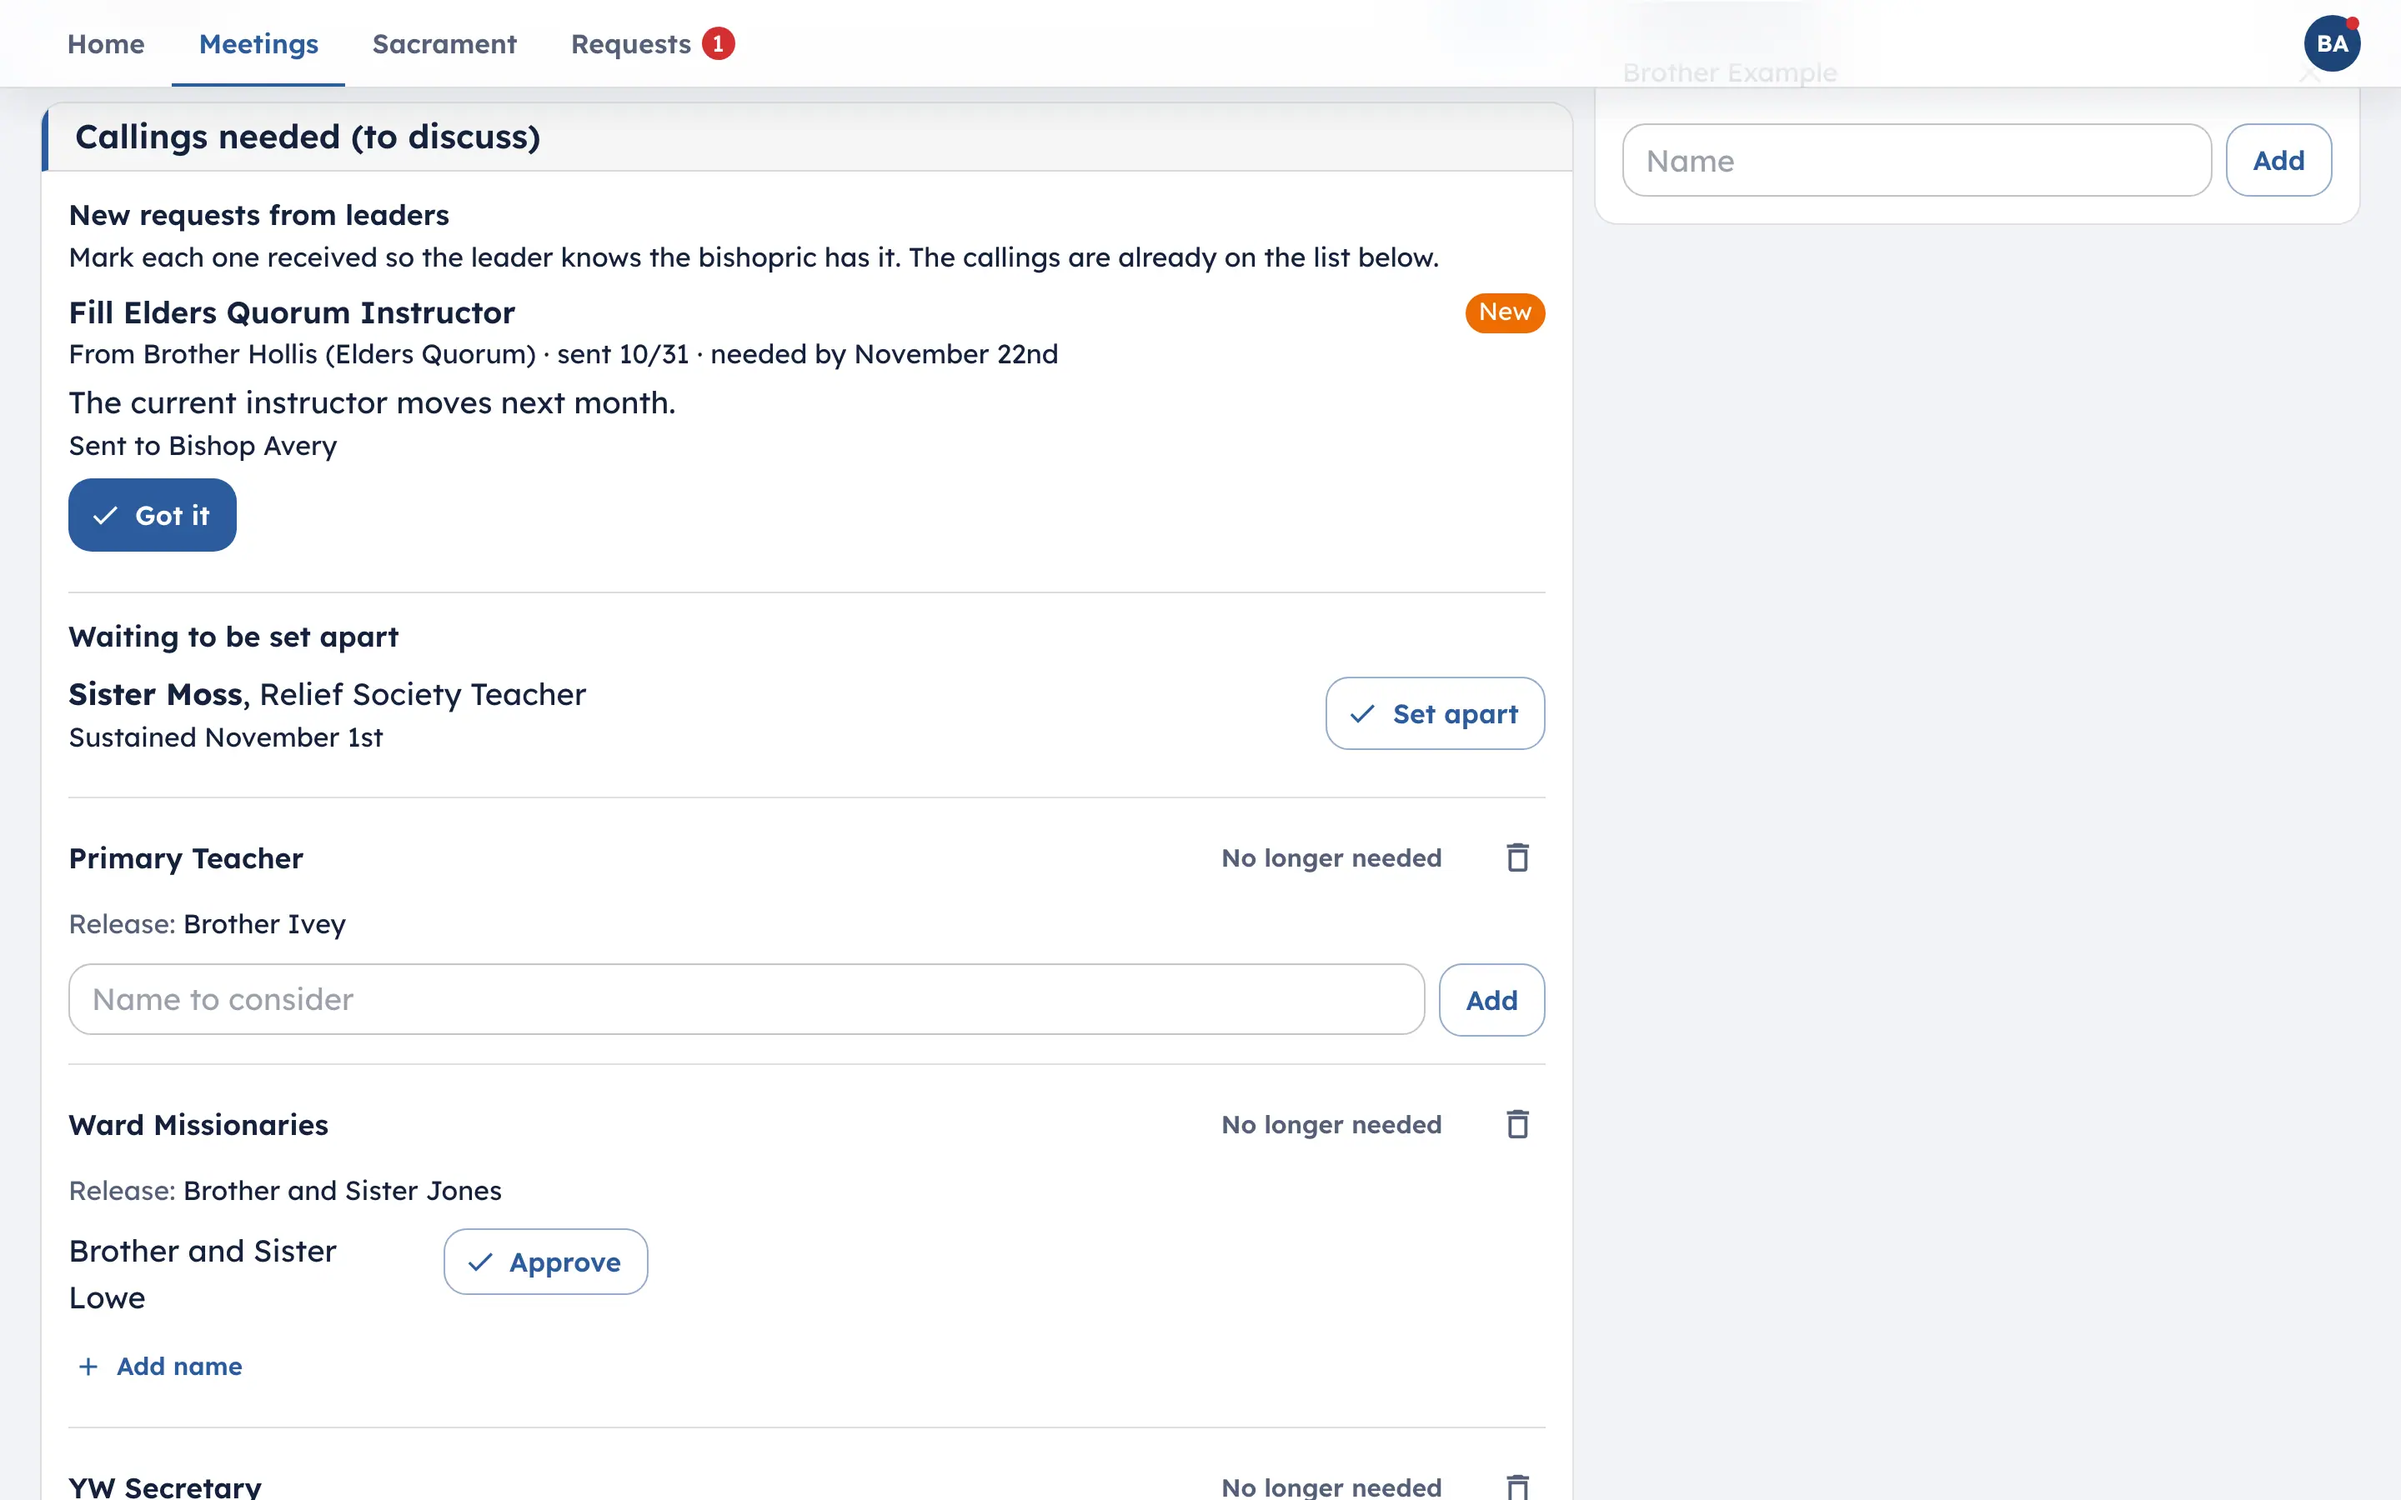
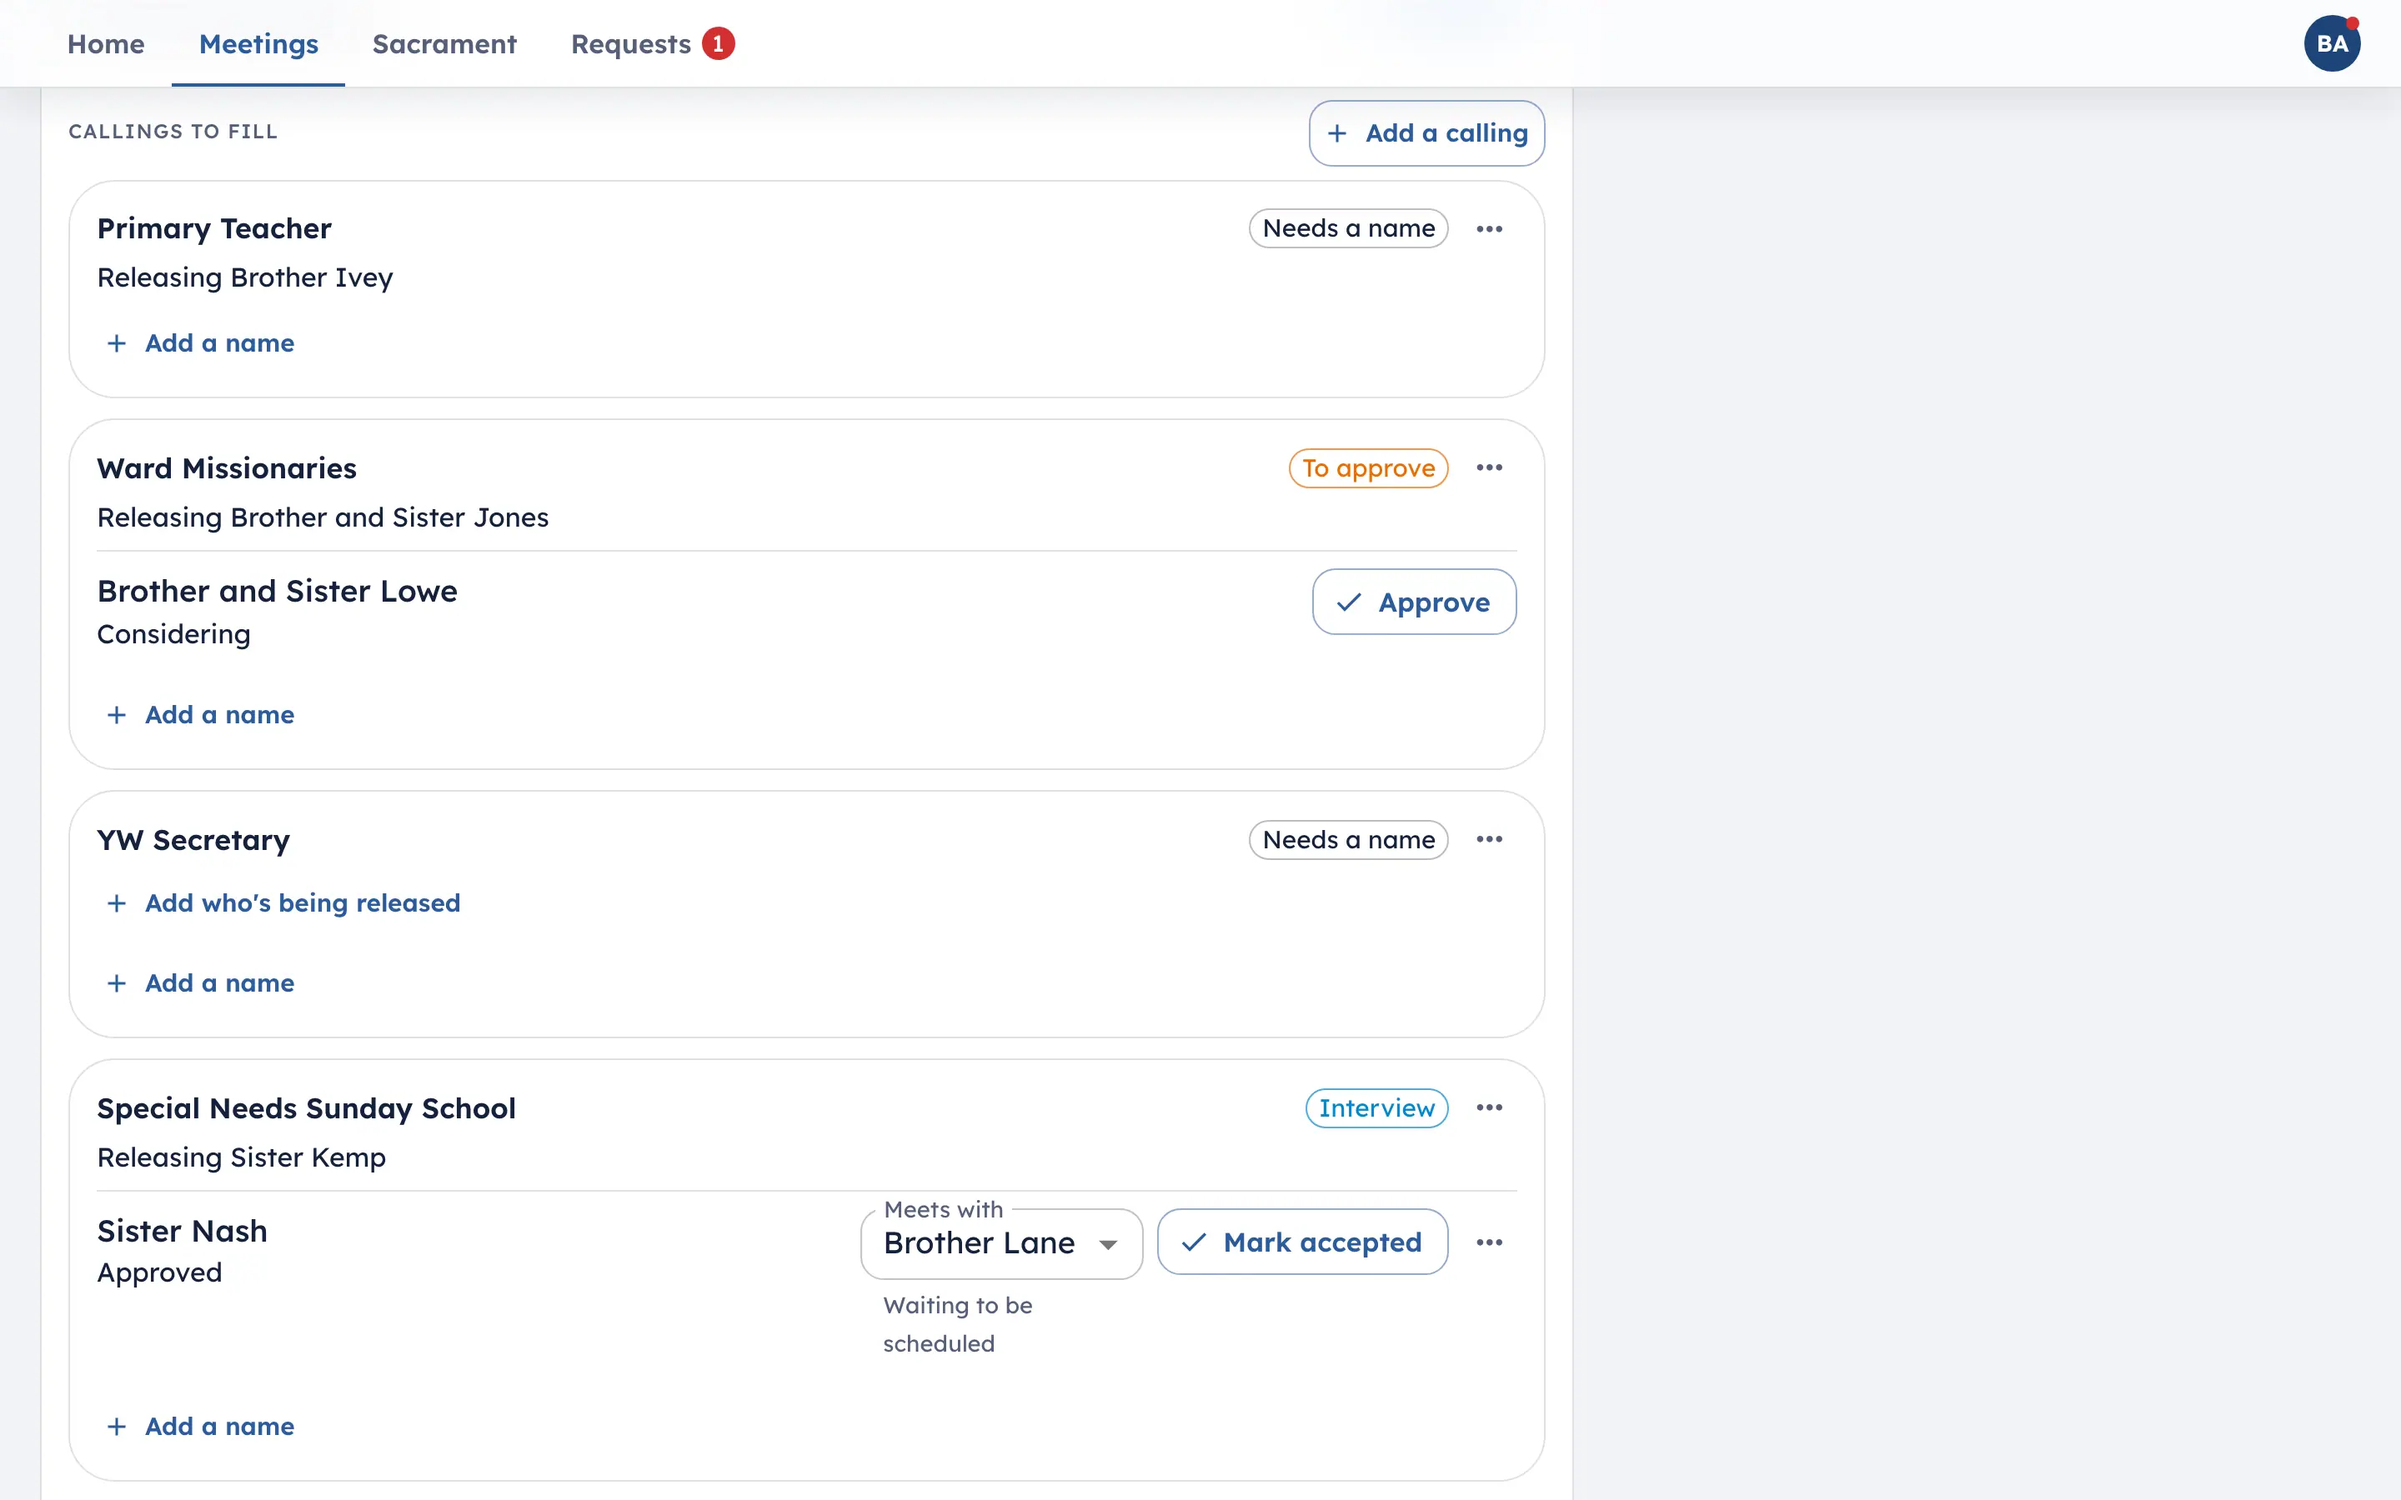
docs(site): update callings guide and screenshots for calling cards
The callings pages still described the status picker, the bin icon
and the always-open name box. They now walk through the per-calling
cards: the stage label, the next-step buttons, the ⋯ menus and the
sustain and release dates together at the foot of the card. Also
fixes the claim that an accepted calling leaves the list; it stays
as "To sustain" until the sustaining Sunday.

The callings screenshot now scrolls to "Callings to fill" so the
phone shot shows the cards instead of the example leader request.

diff --git a/scripts/screenshots/shots.ts b/scripts/screenshots/shots.ts
@@ -39,7 +39,7 @@ export const SHOTS: Shot[] = [
   { feature: 'home-leader', role: 'leader', route: '/requests', caption: 'A called leader starts on Requests, where they see what the bishopric has asked and can ask for calling changes.', waitFor: /Got it|New|Sent|Seen|calling/ },
 
   { feature: 'agenda-bishopric', role: 'bishop', route: '/agenda/bishopric', caption: 'The bishopric meeting agenda with every section ready to fill in.', waitFor: /Action \/ discussion items/ },
-  { feature: 'agenda-bishopric-callings', role: 'bishop', route: '/agenda/bishopric', caption: 'Callings are worked on the bishopric agenda: needs, names and where each stands.', waitFor: /Action \/ discussion items/, prepare: scrollToText(/Callings/i) },
+  { feature: 'agenda-bishopric-callings', role: 'bishop', route: '/agenda/bishopric', caption: 'Callings are worked on the bishopric agenda: one card per calling, showing where it stands and its next step.', waitFor: /Action \/ discussion items/, prepare: scrollToText(/^Callings to fill$/) },
   { feature: 'agenda-bishopric-assignments', role: 'secretary', route: '/agenda/bishopric/2026-11-08', caption: 'Prayers and the spiritual thought go to someone picked from a list, who accepts or declines.', waitFor: /Bishopric Meeting Agenda/ },
   { feature: 'agenda-ward-council', role: 'bishop', route: '/agenda/ward-council', caption: 'Ward council agenda, with a section for each organization.', waitFor: /General business/ },
   { feature: 'agenda-ward-council-leader', role: 'leader', route: '/agenda/ward-council', caption: 'Called leaders who attend ward council see only that agenda.', waitFor: /General business/ },

diff --git a/site/src/content/docs/docs/callings/proposing-names.md b/site/src/content/docs/docs/callings/proposing-names.md
@@ -16,22 +16,22 @@ Everything starts on the **Callings** section of the bishopric agenda (**Meeting
 
 ## Add a calling to fill
 
-1. Scroll to **Add a calling to fill** at the bottom of the callings section.
+1. Tap **Add a calling**, beside the **Callings to fill** heading.
 2. Start typing the title. Titles from the ward's [calling list](/docs/settings/calling-list/) are suggested; you can type a new one and it is added to the list for next time.
 3. If someone is being released, type their name in **Releasing (optional)**.
-4. Tap **Add**.
+4. Tap **Add calling**. The new calling shows as its own card in the list.
 
 ## Add a name to consider
 
-1. Find the calling.
-2. Tap **Add name** (or use the **Name to consider** box if the calling has no names yet).
+1. Find the calling's card.
+2. Tap **Add a name** at the bottom of the card.
 3. Type the name and tap **Add**.
 
-You can add several names. Each shows as **Considering** until you approve one.
+You can add several names. Each shows as **Considering** until you approve one, and the card shows **To approve**.
 
 ## Add or change who is being released
 
-Tap **Releasing** under the calling and type the name. Once a name is accepted, an **Announce on** date appears so you can say which Sunday the release is read. A calling that only releases someone (no one new) shows just that.
+If no one is listed, tap **Add who's being released** under the calling's title, type the name and tap **Save**. Once a name is accepted, a **Release *name* on** date appears at the foot of the card, next to the sustaining date, so you can say which Sunday the release is read. A calling that only releases someone (no one new) shows just the release date.
 
 ## Names suggested by leaders
 
@@ -42,8 +42,10 @@ Names from a leader's [calling request](/docs/callings/calling-requests/) come i
 
 ## Take a calling off the list
 
+Both are in the **⋯** menu at the top right of the calling's card, and both ask you to confirm.
+
 - **No longer needed** removes it from the list because the need has gone away.
-- The bin icon deletes the calling, its names and any open appointments for them. Use it only for a calling added by mistake. You'll be asked to confirm.
+- **Remove calling** deletes the calling, its names and any open appointments for them. Use it only for a calling added by mistake.
 
 ## Who can see this
 

diff --git a/site/src/content/docs/docs/callings/approving-names.md b/site/src/content/docs/docs/callings/approving-names.md
@@ -16,9 +16,9 @@ When the bishopric decides on a name, you approve it. Approval is what starts th
 
 ## Approve a name
 
-1. Find the name under its calling.
-2. Tap **Approve**. Until a name is approved, this is the only button: a name can't be accepted or declined first.
-3. The name is now **Approved** and **Meets with** appears.
+1. Find the name in its calling's card.
+2. Tap **Approve** beside the name. Until a name is approved, this is the only button: a name can't be accepted or declined first.
+3. The name is now **Approved**, **Meets with** appears, and the card shows **Interview**.
 
 Only one name per calling can be approved at a time. The other names show "Another name is approved" until you step back.
 
@@ -40,7 +40,12 @@ An approved name with a leader appears on the secretary's Home under **Needs an 
 
 ## Change your mind
 
-After approval the **Status** picker offers the next steps: **Considering**, **Approved**, **Accepted** and **Declined**. Choosing **Considering** or **Approved** again steps back, and taking back an acceptance clears the dates it set. **Declined** is final.
+Each name shows one button for its next step. The rarer choices are in the **⋯** menu beside the name:
+
+- For an approved name: **Declined**, or **Back to considering** if you approved the wrong name.
+- For an accepted name: **Undo accepted**, which takes it back to approved and clears the dates it set.
+
+**Declined** is final.
 
 ## Who can see this
 

diff --git a/site/src/content/docs/docs/callings/sustaining-and-setting-apart.md b/site/src/content/docs/docs/callings/sustaining-and-setting-apart.md
@@ -16,12 +16,14 @@ Once a name is approved and has met with a leader, the rest is recording what ha
 
 ## When they accept
 
-1. On the callings section, open the **Status** picker for the name and choose **Accepted**.
-2. **Sustain on** appears, set to the coming Sunday. Change it if you need another date.
-3. If someone is being released, the release date is set to the same Sunday. You can move it with **Announce on**.
-4. The appointment is marked met.
+1. In the calling's card, tap **Mark accepted** beside the name.
+2. **Sustain *name* on** appears at the foot of the card, set to the coming Sunday. Change it if you need another date.
+3. If someone is being released, the release date is set to the same Sunday. You can move it with **Release *name* on**, next to it.
+4. The appointment is marked met, and the card shows **To sustain**.
 
-The calling is no longer in "callings to fill". From that Sunday it shows under **Sustainings today** and **Releases today** on the bishopric agenda, where you can move either date.
+If you marked the wrong person, choose **Undo accepted** from the **⋯** menu beside the name.
+
+The calling stays on the list until the sustaining Sunday. From that Sunday it shows under **Sustainings today** and **Releases today** on the bishopric agenda, where you can move either date.
 
 ## When they are sustained
 
